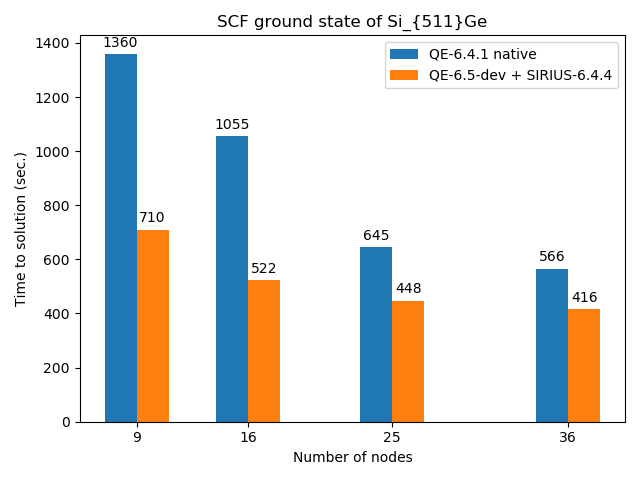
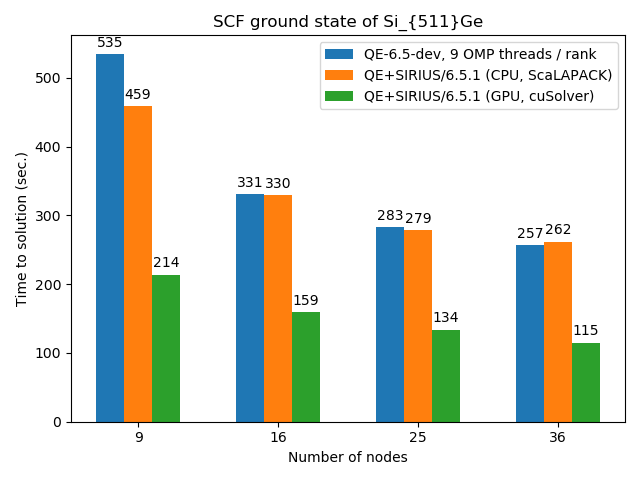
update documentation

diff --git a/README.md b/README.md
@@ -307,15 +307,21 @@ SIRIUS library is usgin OpenMP for node-level parallelization. To run QE/SIRIUS 
  * by default, use one rank per node and many OMP threads; if the calculated system is really small, try to saturate 
    the GPU card using more MPI ranks (e.g.: on a 12-core node, use 2-3-4 ranks with 6-4-3 OMP threads)
 
-#### Example: ground state of Si511Ge
-In the following example we compare performace of native and SIRIUS-enabled versions of QE. Native QE was run on the
-dual-socket nodes containing two 18-core Intel Haswell CPUs.
+### Benchmarks
+In the following examples we compare performace of native and SIRIUS-enabled versions of QE. CPU-only runs were executed
+on the dual-socket multi-core nodes containing two 18-core Intel Broadwell CPUs. GPU rus were executed on the hybrid
+nodes containing 12-core Intel Haswell CPU and NVIDIA Tesla P100 card:
 
+|Hybrid partition (Cray XC50)                | Multicore partition (Cray XC40)                  |
+|--------------------------------------------|--------------------------------------------------|
+|Intel Xeon E5-2690 v3 @2.60GHz, 12 cores <br> NVIDIA Tesla P100 16GB | Two Intel Xeon E5-2695 v4 @2.10GHz (2 x 18 cores)|
+
+Ground state calculation of Si511Ge. Input files can be found
+[here](https://github.com/electronic-structure/benchmarks/tree/master/performance/Si511G)
 
 <p align="center">
 <img src="doc/images/Si511Ge_perf.png">
 </p>
-
 
 
 
